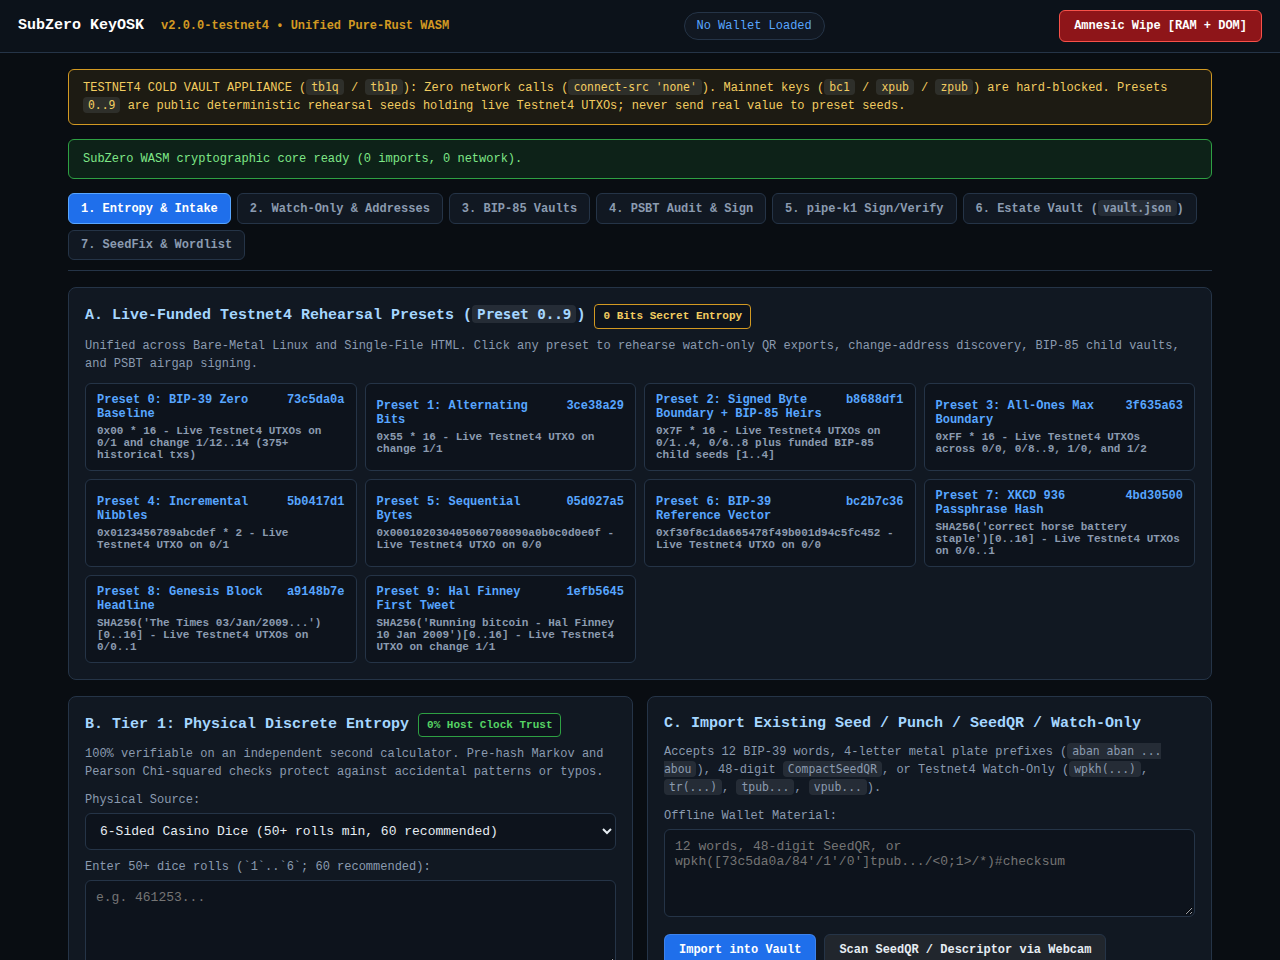
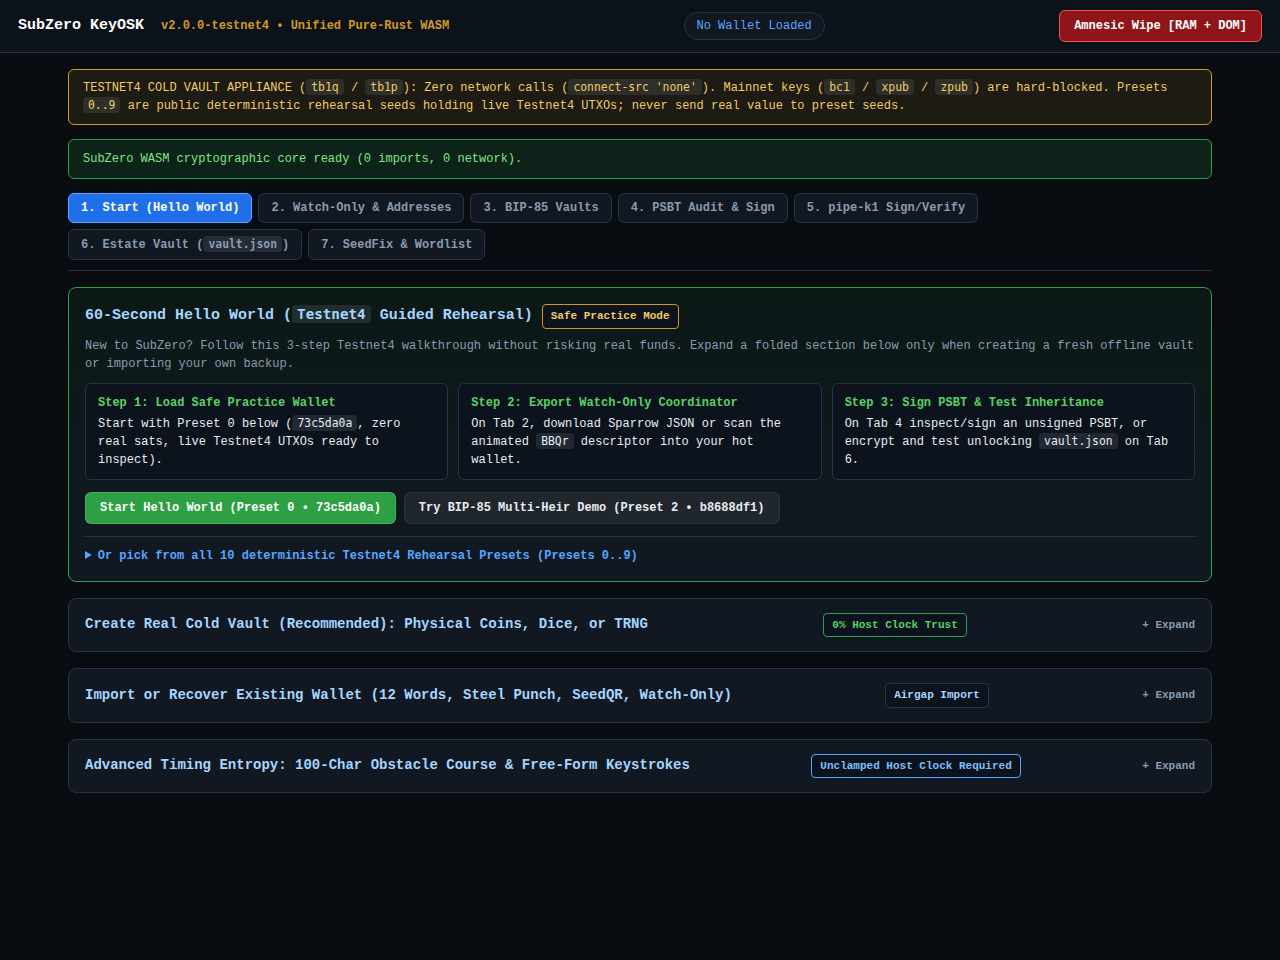
feat(web,docs): add 60-second Hello World happy path and collapsible intake cards

diff --git a/web/subzero-keyosk.template.html b/web/subzero-keyosk.template.html
@@ -220,6 +220,68 @@ video { width: 100%; max-width: 420px; border-radius: 6px; border: 1px solid var
 .audit-fatal { background: rgba(248,81,73,0.16); border: 1px solid var(--danger); color: #ffa198; padding: 10px; border-radius: 6px; margin: 8px 0; }
 .audit-warn { background: rgba(210,153,34,0.14); border: 1px solid var(--warn); color: #f2cc60; padding: 10px; border-radius: 6px; margin: 8px 0; }
 code { background: rgba(110,118,129,0.22); padding: 1px 5px; border-radius: 4px; font-size: 0.95em; }
+.hero-card { border-color: var(--accent); background: linear-gradient(180deg, rgba(46,160,67,0.08), var(--panel)); }
+.happy-steps {
+  display: grid;
+  grid-template-columns: repeat(auto-fit, minmax(220px, 1fr));
+  gap: 10px;
+  margin: 10px 0 12px;
+}
+.happy-step {
+  background: var(--panel-alt);
+  border: 1px solid var(--border);
+  border-radius: 6px;
+  padding: 10px 12px;
+  font-size: 12px;
+}
+.happy-step strong { color: var(--accent-bright); display: block; margin-bottom: 3px; }
+details.card.accordion { padding: 0; }
+details.card.accordion > summary {
+  list-style: none;
+  cursor: pointer;
+  padding: 14px 16px;
+  display: flex;
+  flex-wrap: wrap;
+  gap: 10px;
+  align-items: center;
+  justify-content: space-between;
+  font-weight: 700;
+  color: #a5d6ff;
+  font-size: 14px;
+}
+details.card.accordion > summary::-webkit-details-marker { display: none; }
+details.card.accordion > summary::after {
+  content: "+ Expand";
+  font-size: 11px;
+  color: var(--muted);
+  font-weight: 600;
+}
+details.card.accordion[open] > summary { border-bottom: 1px solid var(--border); }
+details.card.accordion[open] > summary::after { content: "- Collapse"; }
+details.card.accordion > .acc-body { padding: 14px 16px 16px; }
+details.sub-toggle { margin-top: 12px; border-top: 1px solid var(--border); padding-top: 10px; }
+details.sub-toggle > summary {
+  cursor: pointer;
+  color: var(--cyan);
+  font-size: 12px;
+  font-weight: 600;
+}
+details.sub-toggle .preset-grid { margin-top: 10px; }
+.next-strip {
+  background: rgba(31,111,235,0.1);
+  border: 1px solid var(--blue);
+  border-radius: 6px;
+  padding: 9px 12px;
+  margin-bottom: 14px;
+  display: flex;
+  flex-wrap: wrap;
+  gap: 8px;
+  align-items: center;
+  justify-content: space-between;
+  font-size: 12px;
+}
+.next-strip .row { margin-top: 0; }
+.acc-subhead { margin-top: 18px; }
 </style>
 </head>
 <body>
@@ -237,7 +299,7 @@ code { background: rgba(110,118,129,0.22); padding: 1px 5px; border-radius: 4px;
   <div id="global-toast" class="toast"></div>
 
   <div id="nav-tabs" class="tabs">
-    <button type="button" class="tab-btn active" data-tab="tab-intake">1. Entropy &amp; Intake</button>
+    <button type="button" class="tab-btn active" data-tab="tab-intake">1. Start (Hello World)</button>
     <button type="button" class="tab-btn" data-tab="tab-wallet">2. Watch-Only &amp; Addresses</button>
     <button type="button" class="tab-btn" data-tab="tab-bip85">3. BIP-85 Vaults</button>
     <button type="button" class="tab-btn" data-tab="tab-psbt">4. PSBT Audit &amp; Sign</button>
@@ -246,17 +308,29 @@ code { background: rgba(110,118,129,0.22); padding: 1px 5px; border-radius: 4px;
     <button type="button" class="tab-btn" data-tab="tab-seedfix">7. SeedFix &amp; Wordlist</button>
   </div>
 
-  <!-- TAB 1: ENTROPY & INTAKE -->
+  <!-- TAB 1: HAPPY PATH + COLLAPSIBLE VAULT INTAKE -->
   <section id="tab-intake" class="panel active">
-    <div class="card">
-      <h2>A. Live-Funded Testnet4 Rehearsal Presets (<code>Preset 0..9</code>) <span class="badge preset">0 Bits Secret Entropy</span></h2>
-      <div class="hint">Unified across Bare-Metal Linux and Single-File HTML. Click any preset to rehearse watch-only QR exports, change-address discovery, BIP-85 child vaults, and PSBT airgap signing.</div>
-      <div id="preset-grid" class="preset-grid"></div>
+    <div class="card hero-card">
+      <h2>60-Second Hello World (<code>Testnet4</code> Guided Rehearsal) <span class="badge preset">Safe Practice Mode</span></h2>
+      <div class="hint">New to SubZero? Follow this 3-step Testnet4 walkthrough without risking real funds. Expand a folded section below only when creating a fresh offline vault or importing your own backup.</div>
+      <div class="happy-steps">
+        <div class="happy-step"><strong>Step 1: Load Safe Practice Wallet</strong>Start with Preset 0 below (<code>73c5da0a</code>, zero real sats, live Testnet4 UTXOs ready to inspect).</div>
+        <div class="happy-step"><strong>Step 2: Export Watch-Only Coordinator</strong>On Tab 2, download Sparrow JSON or scan the animated <code>BBQr</code> descriptor into your hot wallet.</div>
+        <div class="happy-step"><strong>Step 3: Sign PSBT &amp; Test Inheritance</strong>On Tab 4 inspect/sign an unsigned PSBT, or encrypt and test unlocking <code>vault.json</code> on Tab 6.</div>
+      </div>
+      <div class="row">
+        <button id="btn-hello-world" type="button" class="success">Start Hello World (Preset 0 &bull; 73c5da0a)</button>
+        <button id="btn-hello-heir" type="button" class="secondary">Try BIP-85 Multi-Heir Demo (Preset 2 &bull; b8688df1)</button>
+      </div>
+      <details id="details-all-presets" class="sub-toggle">
+        <summary>Or pick from all 10 deterministic Testnet4 Rehearsal Presets (Presets 0..9)</summary>
+        <div id="preset-grid" class="preset-grid"></div>
+      </details>
     </div>
 
-    <div class="grid-2">
-      <div class="card">
-        <h2>B. Tier 1: Physical Discrete Entropy <span class="badge tier1">0% Host Clock Trust</span></h2>
+    <details id="details-tier1" class="card accordion">
+      <summary><span>Create Real Cold Vault (Recommended): Physical Coins, Dice, or TRNG</span><span class="badge tier1">0% Host Clock Trust</span></summary>
+      <div class="acc-body">
         <div class="hint">100% verifiable on an independent second calculator. Pre-hash Markov and Pearson Chi-squared checks protect against accidental patterns or typos.</div>
         <label for="tier1-kind">Physical Source:</label>
         <select id="tier1-kind">
@@ -272,9 +346,11 @@ code { background: rgba(110,118,129,0.22); padding: 1px 5px; border-radius: 4px;
           <button id="btn-clear-tier1" type="button" class="secondary">Clear</button>
         </div>
       </div>
+    </details>
 
-      <div class="card">
-        <h2>C. Import Existing Seed / Punch / SeedQR / Watch-Only</h2>
+    <details id="details-import" class="card accordion">
+      <summary><span>Import or Recover Existing Wallet (12 Words, Steel Punch, SeedQR, Watch-Only)</span><span class="badge">Airgap Import</span></summary>
+      <div class="acc-body">
         <div class="hint">Accepts 12 BIP-39 words, 4-letter metal plate prefixes (<code>aban aban ... abou</code>), 48-digit <code>CompactSeedQR</code>, or Testnet4 Watch-Only (<code>wpkh(...)</code>, <code>tr(...)</code>, <code>tpub...</code>, <code>vpub...</code>).</div>
         <label for="import-input">Offline Wallet Material:</label>
         <textarea id="import-input" spellcheck="false" autocomplete="off" placeholder="12 words, 48-digit SeedQR, or wpkh([73c5da0a/84'/1'/0']tpub.../<0;1>/*)#checksum"></textarea>
@@ -290,10 +366,12 @@ code { background: rgba(110,118,129,0.22); padding: 1px 5px; border-radius: 4px;
           <button id="btn-stop-import-cam" type="button" class="secondary">Stop Camera</button>
         </div>
       </div>
-    </div>
+    </details>
 
-    <div class="card">
-      <h2>D. Tier 2: Cooperative 100-Char Cross-Row Obstacle Course <span class="badge tier2">Unclamped Host Clock Required</span></h2>
+    <details id="details-tier2" class="card accordion">
+      <summary><span>Advanced Timing Entropy: 100-Char Obstacle Course &amp; Free-Form Keystrokes</span><span class="badge tier2">Unclamped Host Clock Required</span></summary>
+      <div class="acc-body">
+        <h3>Tier 2A: Cooperative 100-Char Cross-Row Obstacle Course</h3>
       <div class="hint">
         You and SubZero are on the same team: transcribing this deterministic zero-OS-RNG cross-row prompt forces slow 2D visual search, Shift transitions, and natural <code>Backspace</code> error-recovery jitter. Red-highlighted typos must be cleared with <code>Backspace</code>. Automatically blocks clamped timers (<code>Tor Browser</code> 100ms). Not re-derivable on a second calculator; write down the resulting 12 words immediately.
       </div>
@@ -306,10 +384,8 @@ code { background: rgba(110,118,129,0.22); padding: 1px 5px; border-radius: 4px;
         <button id="btn-finalize-tier2" type="button" class="success" disabled>Finalize Tier 2 Vault (Complete 100/100 chars)</button>
         <button id="btn-reset-tier2" type="button" class="secondary">New Deterministic Obstacle Course</button>
       </div>
-    </div>
 
-    <div class="card">
-      <h2>E. Tier 2B: Free-Form Keys / Arrows + Optional Mouse Jitter <span class="badge tier2">64+ Events</span></h2>
+      <h3 class="acc-subhead">Tier 2B: Free-Form Keys / Arrows + Optional Mouse Jitter (<code>64+ Events</code>)</h3>
       <div class="hint">Type any mix of keys or arrow keys (Up/Down/Left/Right) at natural varied speeds and optionally wiggle your mouse/trackpad over the box. Needs 64+ non-repeat events across 8+ distinct keys and >= 144 timing bits.</div>
       <div id="ff-stats" class="hint">Keys/Arrows: 0 / 64 | Distinct: 0 / 8 | Timing: 0.0 / 144 bits | Pointer Jitter: 0</div>
       <input id="ff-focus" type="text" spellcheck="false" autocomplete="off" placeholder="Click here and type random keys / arrows (mouse wiggle optional)...">
@@ -317,17 +393,25 @@ code { background: rgba(110,118,129,0.22); padding: 1px 5px; border-radius: 4px;
         <button id="btn-finalize-ff" type="button" class="success" disabled>Derive Free-Form Vault</button>
         <button id="btn-reset-ff" type="button" class="secondary">Reset Free-Form</button>
       </div>
-    </div>
+      </div>
+    </details>
   </section>
 
   <!-- TAB 2: ACTIVE WALLET & WATCH-ONLY -->
   <section id="tab-wallet" class="panel">
     <div id="wallet-empty" class="card">
       <h2>No Active Wallet</h2>
-      <div class="hint">Load a rehearsal preset, derive physical entropy, or import a descriptor on Tab 1 first.</div>
+      <div class="hint">Load the Hello World preset or derive a vault on Tab 1 first.</div>
     </div>
 
     <div id="wallet-loaded" class="hidden">
+      <div class="next-strip">
+        <span><strong>Step 2 Ready:</strong> Export your watch-only file or scan <code>BBQr</code> below, then continue the Happy Path:</span>
+        <div class="row">
+          <button id="btn-goto-psbt" type="button" class="success">Step 3: Audit &amp; Sign PSBT &rarr;</button>
+          <button id="btn-goto-estate" type="button" class="secondary">Step 3B: Create Estate Backup &rarr;</button>
+        </div>
+      </div>
       <div class="card">
         <h2>Active Cold Vault Summary</h2>
         <div class="row">
@@ -1753,6 +1837,10 @@ code { background: rgba(110,118,129,0.22); padding: 1px 5px; border-radius: 4px;
     document.getElementById("wallet-empty").classList.remove("hidden");
     document.getElementById("active-wallet-pill").textContent = "No Wallet Loaded (RAM Wiped)";
     if (wasm && wasm.sz_wipe_memory) wasm.sz_wipe_memory();
+    ["details-all-presets", "details-tier1", "details-import", "details-tier2"].forEach((id) => {
+      const el = document.getElementById(id);
+      if (el) el.open = false;
+    });
     updateTier1Counter();
     resetObstacleCourse();
     refreshWordlist();
@@ -1760,7 +1848,17 @@ code { background: rgba(110,118,129,0.22); padding: 1px 5px; border-radius: 4px;
     showToast("Amnesic wipe complete: WASM linear memory & DOM scrubbed. Close browser tab to release JS GC memory.", false);
   });
 
-  // --- Boot WASM ---
+  // --- Quickstart Happy Path & Boot WASM ---
+  function loadPresetById(id) {
+    const r = rpc({ cmd: "load_preset", id });
+    if (r.ok) activateWalletView(r.data, "Loaded rehearsal Preset " + id + " [" + r.data.profile.fingerprint + "].");
+    else showToast(r.error, true);
+  }
+  document.getElementById("btn-hello-world").addEventListener("click", () => loadPresetById(0));
+  document.getElementById("btn-hello-heir").addEventListener("click", () => loadPresetById(2));
+  document.getElementById("btn-goto-psbt").addEventListener("click", () => switchTab("tab-psbt"));
+  document.getElementById("btn-goto-estate").addEventListener("click", () => switchTab("tab-estate"));
+
   WebAssembly.instantiate(b64ToBytes(WASM_B64), {}).then((inst) => {
     wasm = inst.instance.exports;
     const presetsRes = rpc({ cmd: "list_presets" });

diff --git a/scripts/test_e2e_suite.py b/scripts/test_e2e_suite.py
@@ -157,18 +157,19 @@ def test_html_e2e(capture_screenshots: bool = False):
             os.makedirs(SCREENSHOT_DIR, exist_ok=True)
             page.screenshot(path=os.path.join(SCREENSHOT_DIR, "v2_01_presets.png"))
 
-        # 1. Load Preset 0
-        page.click("#preset-grid button")
+        # 1. Happy Path Hello World button + Preset 0 in collapsed All-Presets drawer
+        page.click("#btn-hello-world")
         page.wait_for_function("() => document.querySelector('#w-xfp-badge').textContent.trim().length > 0", timeout=5000)
         preset_fp = page.text_content("#w-xfp-badge").strip()
         assert "73c5da0a" in preset_fp, f"Expected 73c5da0a, got {preset_fp!r}"
-        print(f"  [PASS] Preset 0 loaded (fp={preset_fp})")
+        print(f"  [PASS] Hello World Preset 0 loaded (fp={preset_fp})")
 
         if capture_screenshots:
             page.screenshot(path=os.path.join(SCREENSHOT_DIR, "v2_03_watch_only_qr.png"))
 
-        # 2. Tier 1 Coins
+        # 2. Tier 1 Coins (open folded Tier 1 accordion first)
         page.click('button[data-tab="tab-intake"]')
+        page.click("#details-tier1 > summary")
         page.select_option("#tier1-kind", "coins")
         page.fill("#tier1-input", COIN_128)
         page.click("#btn-derive-tier1")
@@ -193,8 +194,9 @@ def test_html_e2e(capture_screenshots: bool = False):
         assert len(dice_fp) >= 8
         print(f"  [PASS] Tier 1 Dice derived (fp={dice_fp})")
 
-        # 3b. Tier 2A 100-Char Obstacle Course (with intentional Backspace typo recovery!)
+        # 3b. Tier 2A 100-Char Obstacle Course (open folded Tier 2 accordion + intentional Backspace typo recovery!)
         page.click('button[data-tab="tab-intake"]')
+        page.click("#details-tier2 > summary")
         prompt_text = page.text_content("#obstacle-display")
         assert len(prompt_text) == 100, f"Expected 100-char prompt, got {len(prompt_text)}"
         page.click("#obstacle-focus")
@@ -244,12 +246,14 @@ def test_html_e2e(capture_screenshots: bool = False):
         ff_fp = page.text_content("#w-xfp-badge").strip()
         print(f"  [PASS] Tier 2B Free-Form (>= 144 timing bits + pointer jitter) derived (fp={ff_fp})")
 
-        # 4. Watch-Only Taproot `tr(...)` import sanity check (must select recv86 & not mislabel as BIP-84)
+        # 4. Watch-Only Taproot `tr(...)` import sanity check (open folded Import accordion first)
         page.click('button[data-tab="tab-intake"]')
+        page.click("#details-all-presets > summary")
         page.click("#preset-grid button")  # back to Preset 0 so we have its tr_descriptor
         page.wait_for_function("() => document.querySelector('#w-xfp-badge').textContent.includes('73c5da0a')", timeout=5000)
         tr_desc = page.text_content("#w-extra-desc").split("BIP-86 Taproot Descriptor:\n")[1].strip()
         page.click('button[data-tab="tab-intake"]')
+        page.click("#details-import > summary")
         page.fill("#import-input", tr_desc)
         page.click("#btn-import-wallet")
         page.wait_for_function(
@@ -260,7 +264,7 @@ def test_html_e2e(capture_screenshots: bool = False):
 
         # 5. Independently Built Testnet4 PSBT Audit & Signing (Preset 0)
         page.click('button[data-tab="tab-intake"]')
-        page.click("#preset-grid button")
+        page.click("#btn-hello-world")
         page.wait_for_function("() => document.querySelector('#w-xfp-badge').textContent.includes('73c5da0a')", timeout=5000)
         page.click('button[data-tab="tab-psbt"]')
         page.fill("#psbt-input", unsigned_psbt_b64)

diff --git a/README.md b/README.md
@@ -15,13 +15,14 @@ In v2.0, **all execution targets** compile from one pure-Rust cryptographic core
 
 ---
 
-## Quickstart
+## Quickstart (`60-Second Hello World`)
 
 ### Option A: Offline Single-File Browser Kiosk (`0` Installation)
 
 1. Download `subzero-keyosk.html`, `decrypt.html`, `SHA256SUMS`, `SHA256SUMS.asc`, and `SHA256SUMS.pk1` from the latest GitHub Release (or build them locally from source with `./scripts/build_reproducible.sh`).
 2. Verify `SHA256SUMS` and its detached signatures (see [Reproducible Builds and Release Verification](#reproducible-builds-and-release-verification) below).
 3. Disconnect Wi-Fi, Ethernet, and Bluetooth, then open `subzero-keyosk.html` directly from disk (`file:///.../subzero-keyosk.html`) in a standard unclamped desktop browser (Chromium or standard Firefox).
+4. **Happy Path Walkthrough (`Testnet4` Hello World)**: Click **Start Hello World (`Preset 0`)** -> download the watch-only **Sparrow JSON** (`or scan BBQr`) on Tab 2 -> test inspecting/signing a Testnet4 PSBT on Tab 4 -> export and test unlocking `vault.json` inside offline `decrypt.html` (`Tab 6`). Keep the collapsed creation/import sections folded until building your own real vault with dice or coins.
 
 ### Option B: Static Linux Console Binary (`x86_64-unknown-linux-musl`)
 
